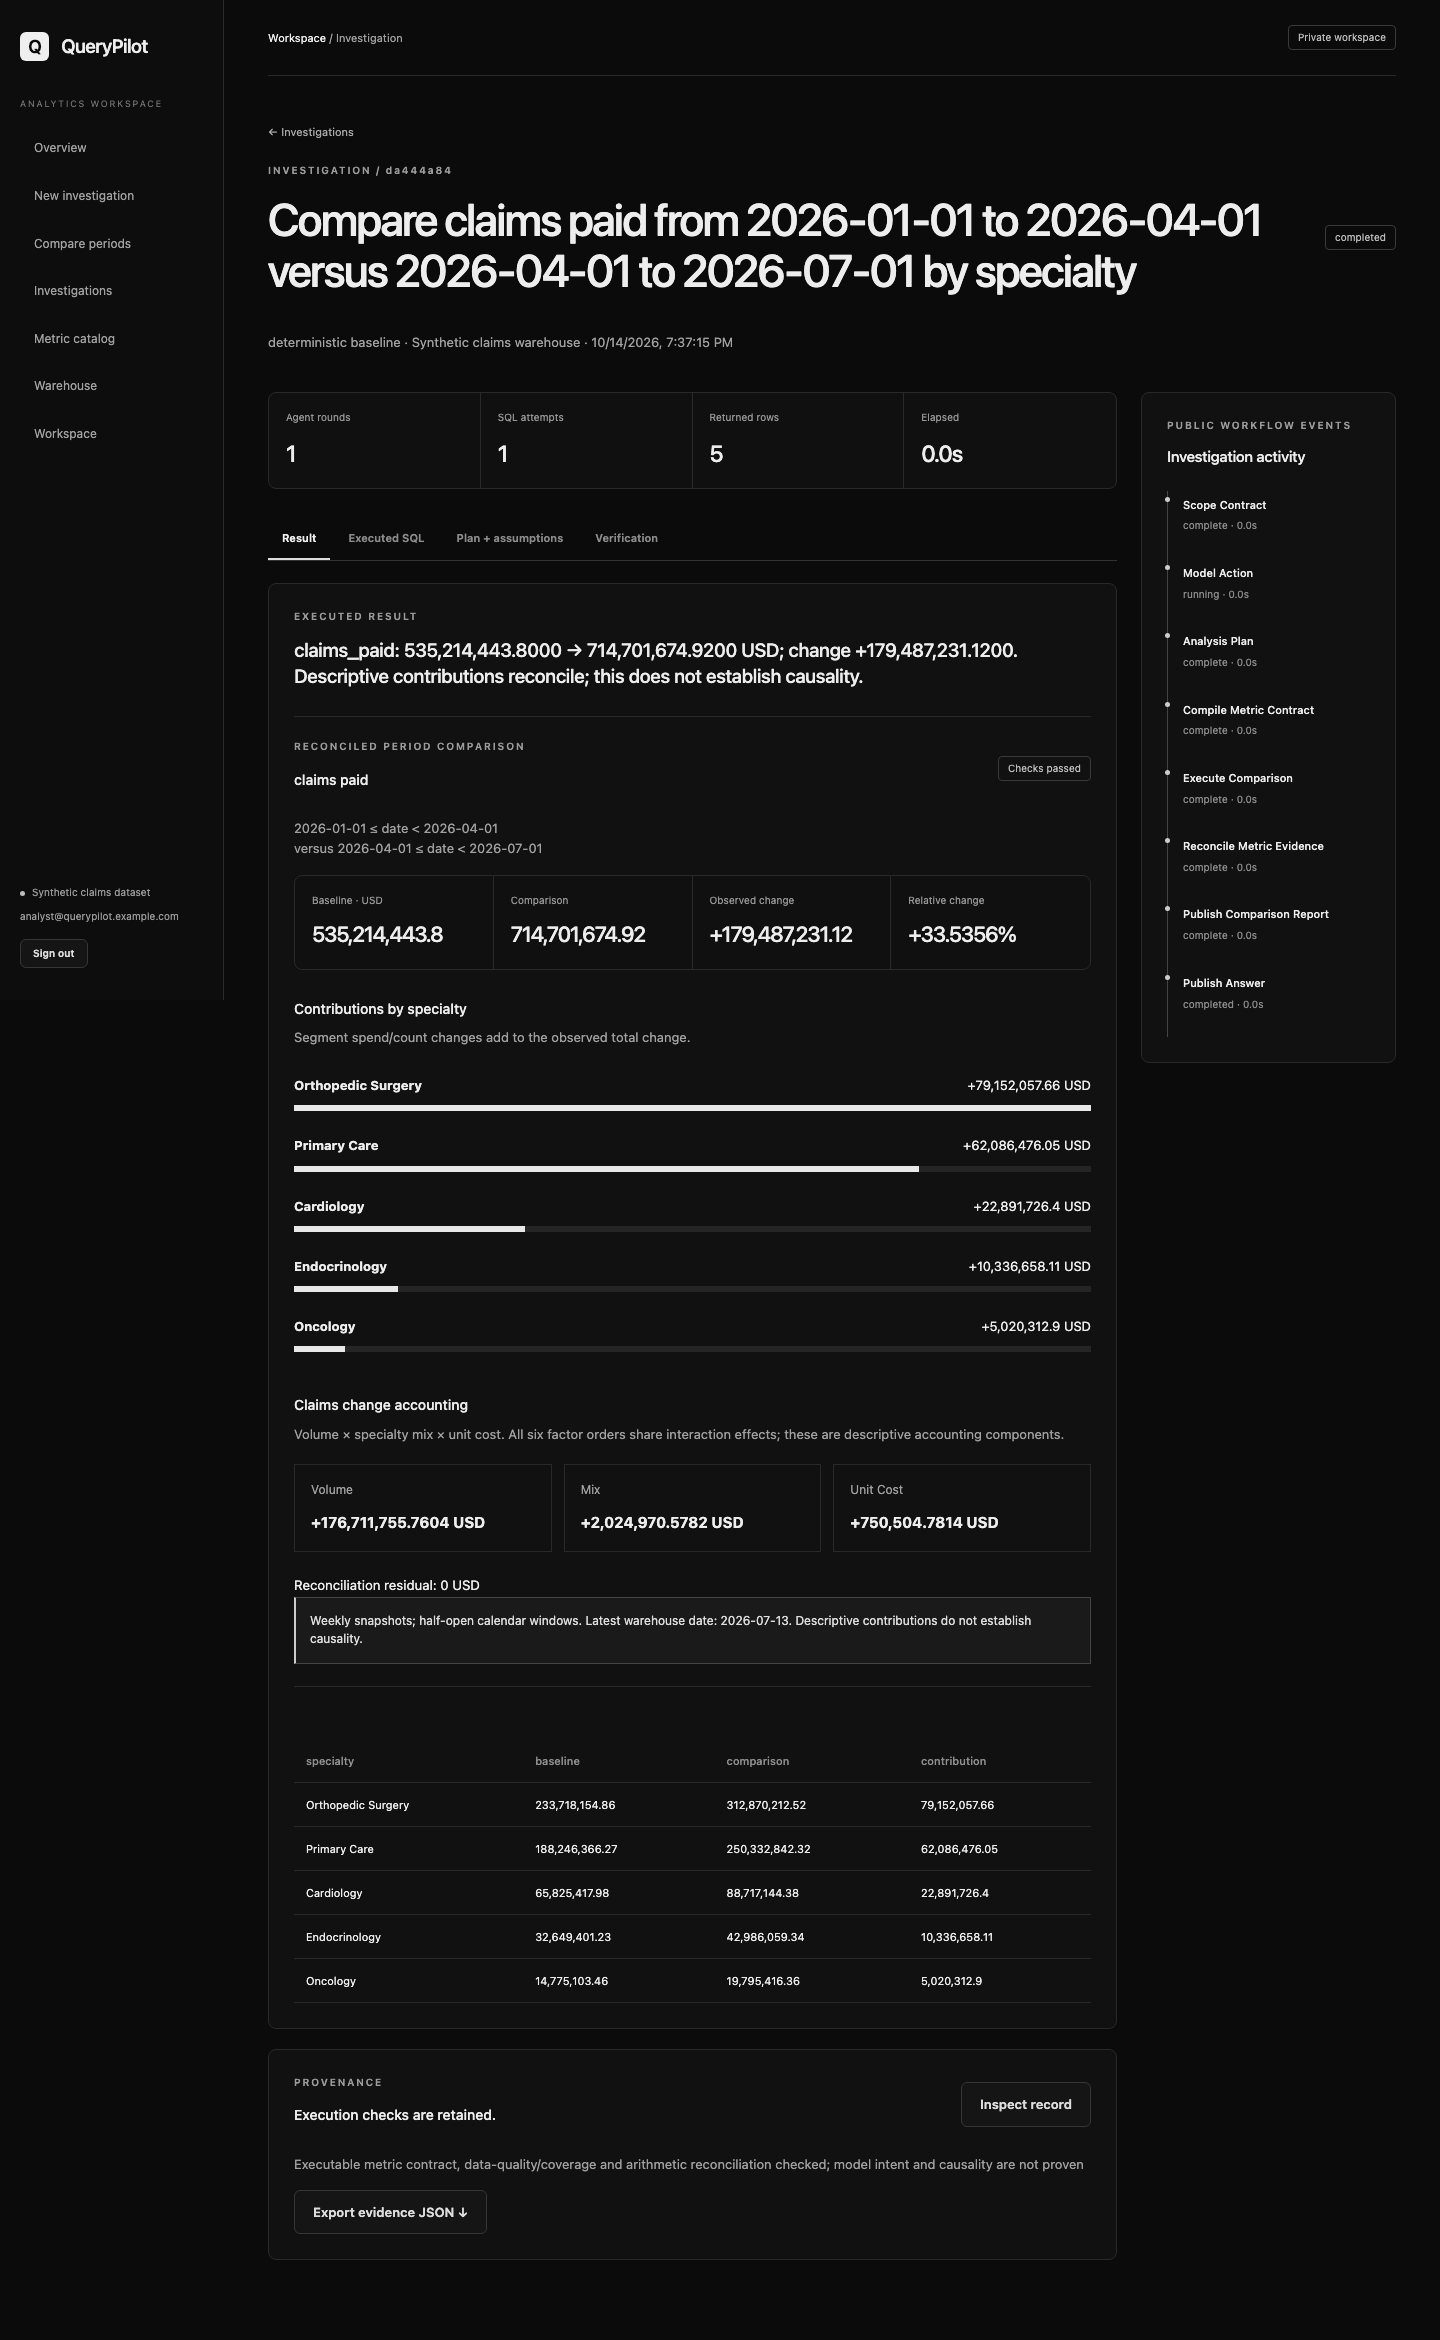
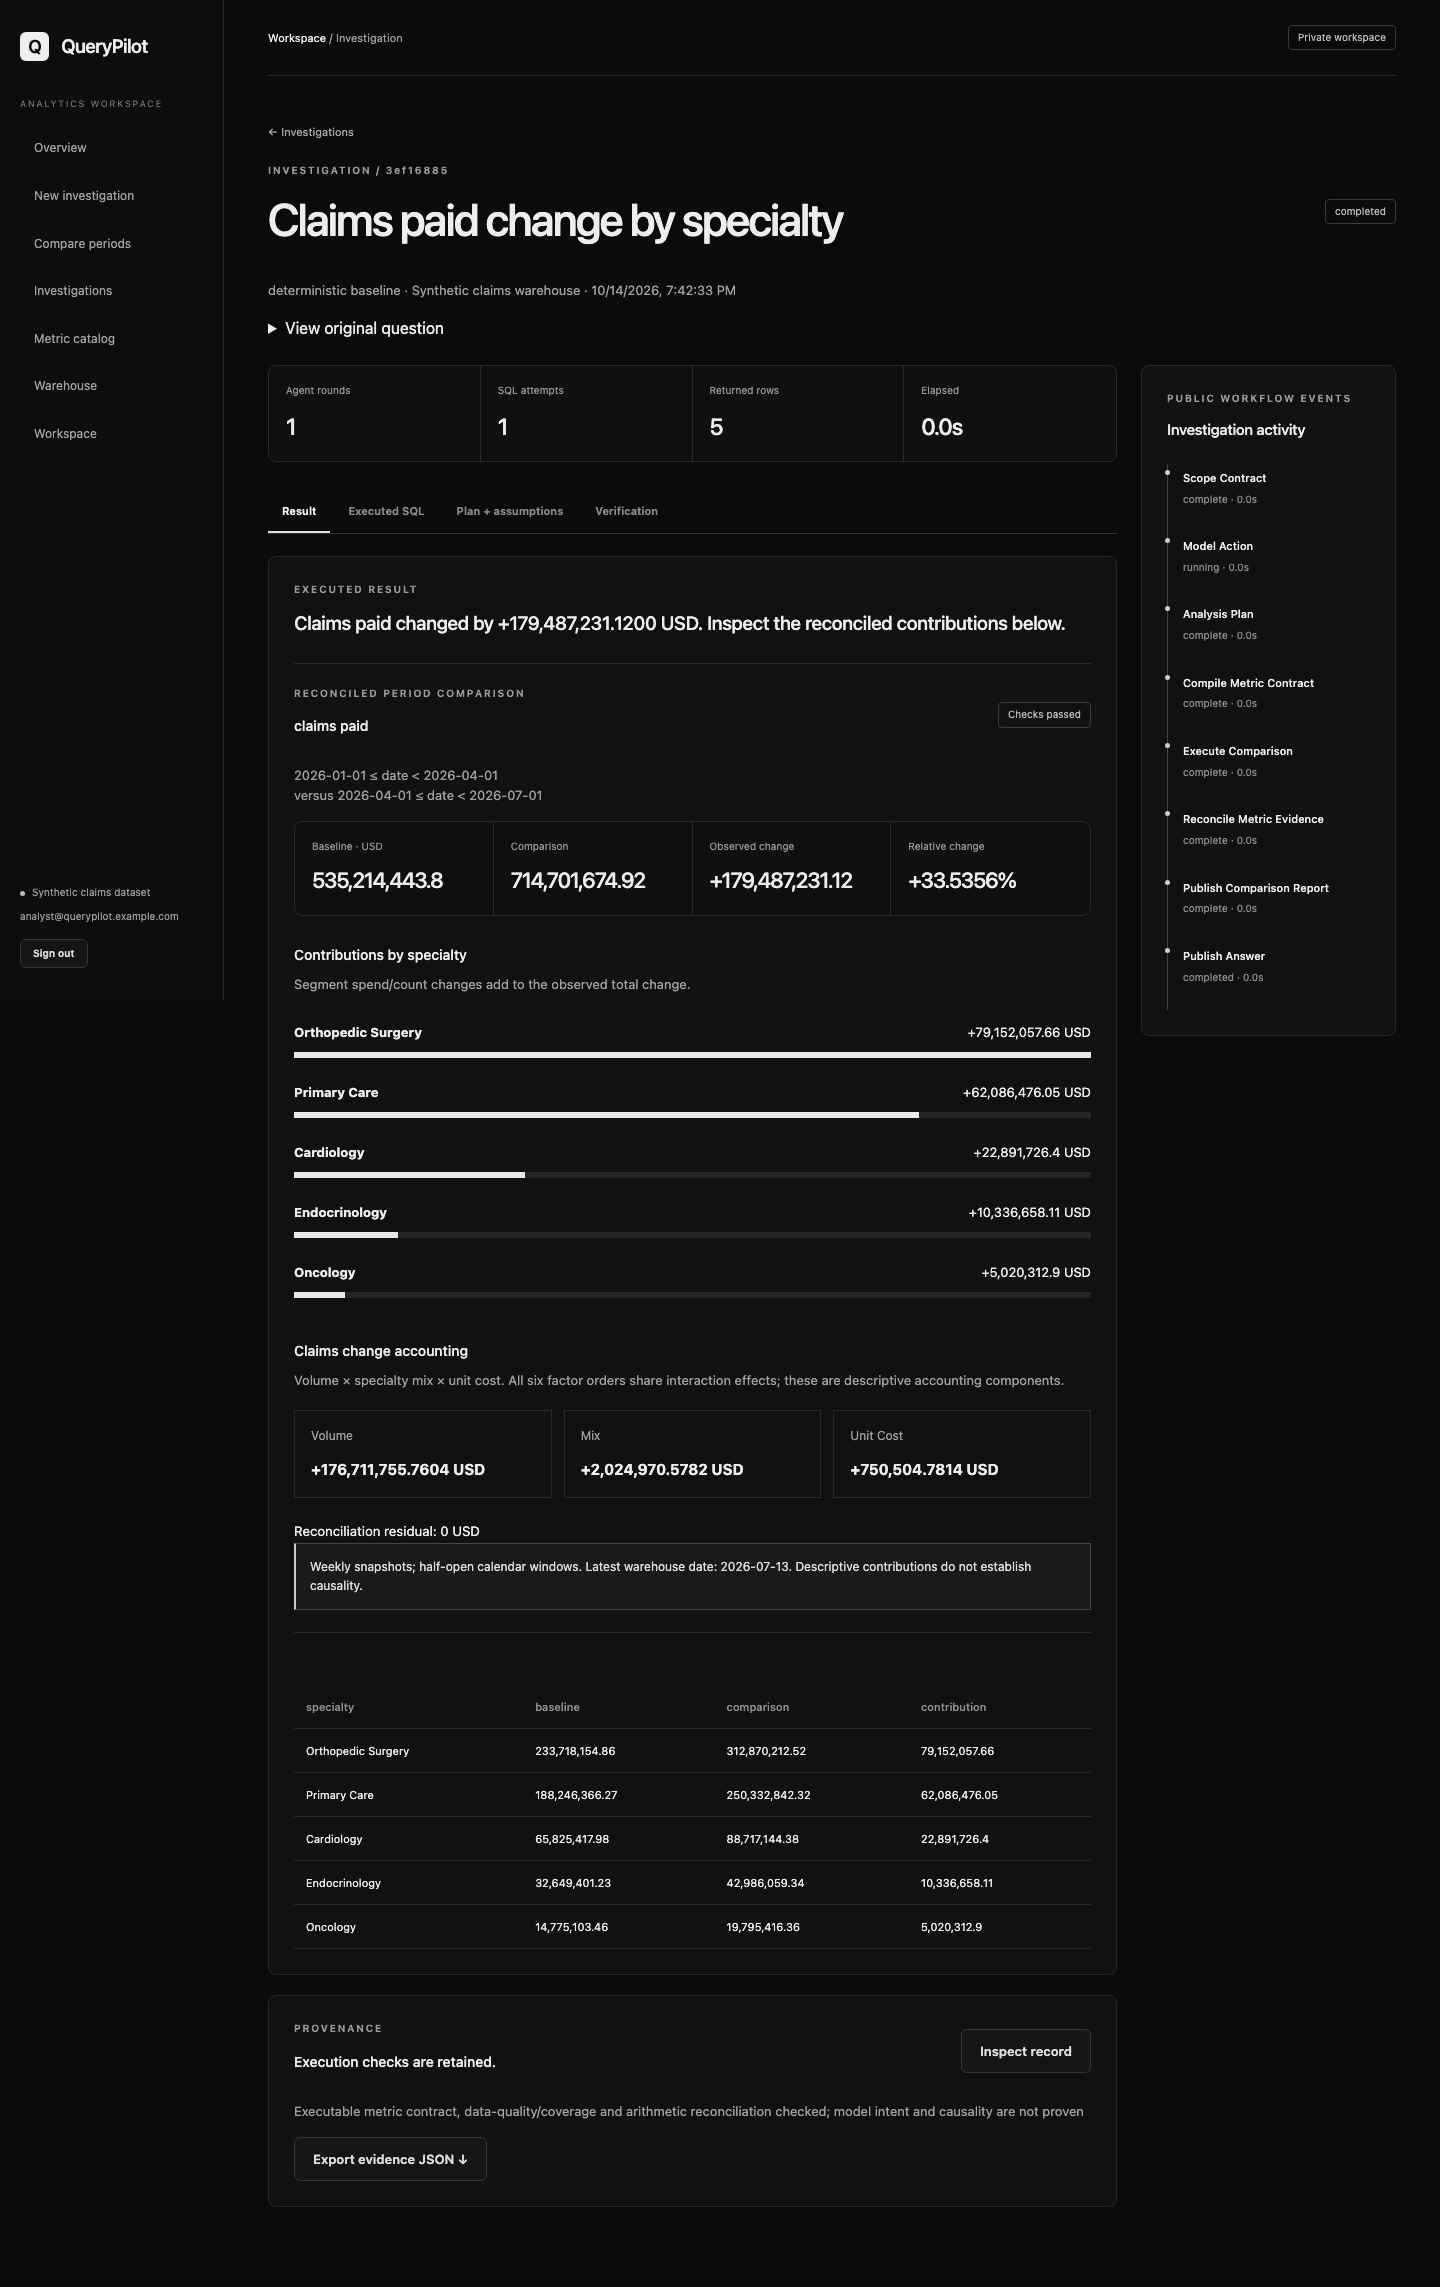
fix(ui): lead comparison reports with the business change

diff --git a/frontend/src/pages/Workbench.tsx b/frontend/src/pages/Workbench.tsx
@@ -180,6 +180,14 @@ export function RunDetail() {
     );
   if (!run) return <div className="loading-page">Loading investigation…</div>;
   const result = run.result;
+  const comparison = result?.comparison;
+  const title = comparison
+    ? comparison.request.metric_id
+        .replaceAll("_", " ")
+        .replace(/^./, (c) => c.toUpperCase()) +
+      " change by " +
+      comparison.request.dimension
+    : run.question;
   const events = result?.events || run.events || [];
   return (
     <>
@@ -190,7 +198,7 @@ export function RunDetail() {
         <div className="section-heading">
           <div>
             <div className="eyebrow">INVESTIGATION / {run.id.slice(0, 8)}</div>
-            <h1>{run.question}</h1>
+            <h1>{title}</h1>
           </div>
           <span className="pill">{run.status.replaceAll("_", " ")}</span>
         </div>
@@ -198,6 +206,12 @@ export function RunDetail() {
           {result?.model_mode || run.mode} · Synthetic claims warehouse ·{" "}
           {new Date(run.created_at).toLocaleString()}
         </p>
+        {comparison && (
+          <details>
+            <summary>View original question</summary>
+            <p>{run.question}</p>
+          </details>
+        )}
       </div>
       <div className="run-layout">
         <section>

diff --git a/backend/app/agent/comparison.py b/backend/app/agent/comparison.py
@@ -3,7 +3,7 @@
 from typing import TypedDict
 from langgraph.graph import StateGraph, START, END
 
-from .catalog import CONTRACT
+from .catalog import CONTRACT, METRICS
 from .semantic import (
     ComparisonRequest,
     compile_comparison,
@@ -78,7 +78,8 @@ class ComparisonWorkflow:
             report = state["report"]
             summary = report["summary"]
             if report["verified"]:
-                answer = f"{request.metric_id}: {summary['baseline']:,.4f} → {summary['comparison']:,.4f} {summary['unit']}; change {summary['change']:+,.4f}. Descriptive contributions reconcile; this does not establish causality."
+                name = next(m["name"] for m in METRICS if m["id"] == request.metric_id)
+                answer = f"{name} changed by {summary['change']:+,.4f} {summary['unit']}. Inspect the reconciled contributions below."
                 columns = [request.dimension, "baseline", "comparison", "contribution"]
                 rows = [
                     [r["segment"], r["baseline"], r["comparison"], r["contribution"]]

diff --git a/README.md b/README.md
@@ -16,9 +16,14 @@
 
 Claims spend, declined referrals, provider capacity and coordination costs have different grains and denominators. A plausible query can double-count spend or average the wrong rate. Analysts need a faster route to an answer with inspectable metric assumptions, SQL, completeness and evidence. QueryPilot supplies that workflow over an explicitly synthetic healthcare operations warehouse.
 
+<details>
+<summary>Explore the original analytical investigation</summary>
+
 <img src="docs/assets/investigation.png" alt="Actual QueryPilot investigation showing specialty results, SQL and plan tabs, public workflow events and execution provenance. Synthetic data, deterministic investigator." width="100%" />
 
 *Actual application capture. Guided deterministic investigator; no live model request or customer data.*
+
+</details>
 
 ## Investigate what changed
 
